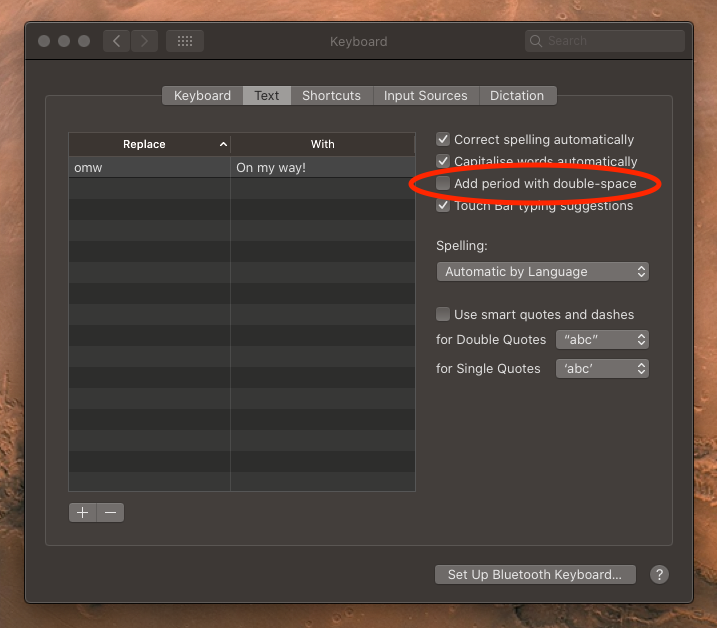
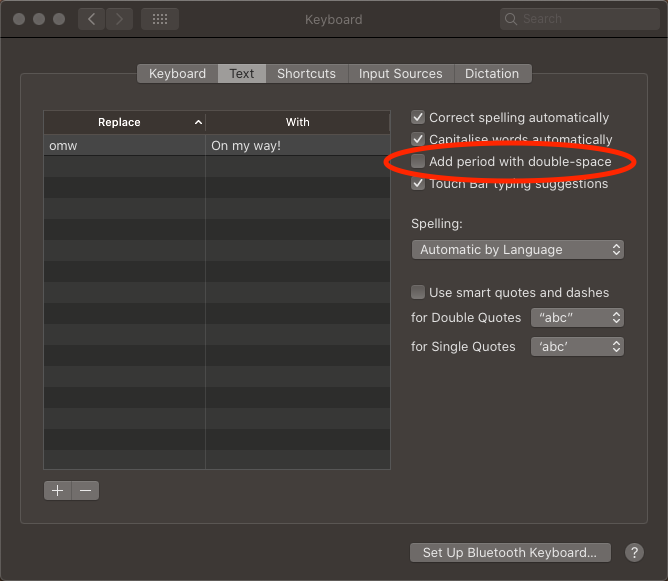
Reword troubleshooting + crop image

Changed region(s): [[0.0, 0.0, 1.0, 1.0], [0.1497, 0.1859, 0.2395, 0.2478], [0.0599, 0.2169, 0.1497, 0.2788]]

diff --git a/docs/troubleshooting.md b/docs/troubleshooting.md
@@ -5,15 +5,13 @@ title: Troubleshooting
 
 ## Error "␣ is undefined" when pressing SPC SPC
 
-When pressing `SPC SPC` quickly on Mac OS, most of the time it doesn't recognize
-the second `SPC` and the error "␣ is undefined" is raised.
+When pressing `SPC SPC` quickly on macOS, which-key doesn't recognize the second `SPC` somtimes, and the error "␣ is undefined" is displayed on the status bar.
 
-This problem is due to this setting of mac os:
+This problem is due to a keyboard settings on macOS that add a period with double-space.
 
 ![Mac keyboard preferences](/img/docs/mac_double_space.png)
 
-If you don't use this feature, you can just disable it and you are done.
-Otherwise add the following to your `settings.json`:
+If you don't use this feature, disabling it should fix this issue. Otherwise, add the following overrides to your `settings.json` as a workaround:
 
 ```json
 "vspacecode.bindingOverrides": [
